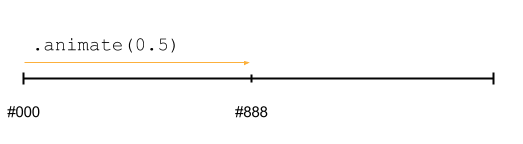
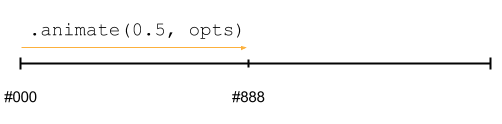
Make explanations for from and to parameters better

diff --git a/README.md b/README.md
@@ -710,20 +710,6 @@ See [example in demo page](https://kimmobrunfeldt.github.io/progressbar.js#examp
 Customizing animations is possible with the help of `from`, `to` and `step` parameters.
 Tweening engine changes defined values over time and calls step function for each animation's frame.
 
-**Note:** There's a big difference between passing the `from` and `to` parameters in initialization
-of progress bar compared to passing in `.animate()` call.
-
-![](docs/animate-init.png)
-
-When `from` and `to` parameters are passed in initialization. The passed values are
-interpolated to the whole scale of 0 to 1.
-
-![](docs/animate-call.png)
-
-When `from` and `to` parameters are passed in `.animate()` call. The passed values are
-interpolated to the whole scale of current value to new progress.
-
-
 * `from` Object containing values which should be tweened.
  These values represent the starting values of the animation. Default: `{}`.
 
@@ -769,6 +755,43 @@ interpolated to the whole scale of current value to new progress.
         attachment.path.setAttribute('stroke', state.color);
     }
     ```
+
+**Note:** There's a big difference between passing the `from` and `to` parameters in initialization
+of progress bar compared to passing in `.animate()` call. Here's example code and illustrations to explain the difference:
+
+**Pass in initialization**
+
+```javascript
+var bar = new ProgressBar.Line('#container', {
+    from: { color: '#000 '},
+    to: { color: '#888 '},
+    step: function(state, bar) {
+        bar.setAttribute('stroke', state.color);
+    }
+});
+```
+
+![](docs/animate-init.png)
+
+
+**Pass in `.animate()` call**
+
+```javascript
+var bar = new ProgressBar.Line('#container', {
+    step: function(state, bar) {
+        bar.setAttribute('stroke', state.color);
+    }
+});
+
+var opts = {
+    from: { color: '#000 '},
+    to: { color: '#888 '}
+};
+bar.animate(0.5, opts);
+```
+
+![](docs/animate-call.png)
+
 
 ## Examples
 
